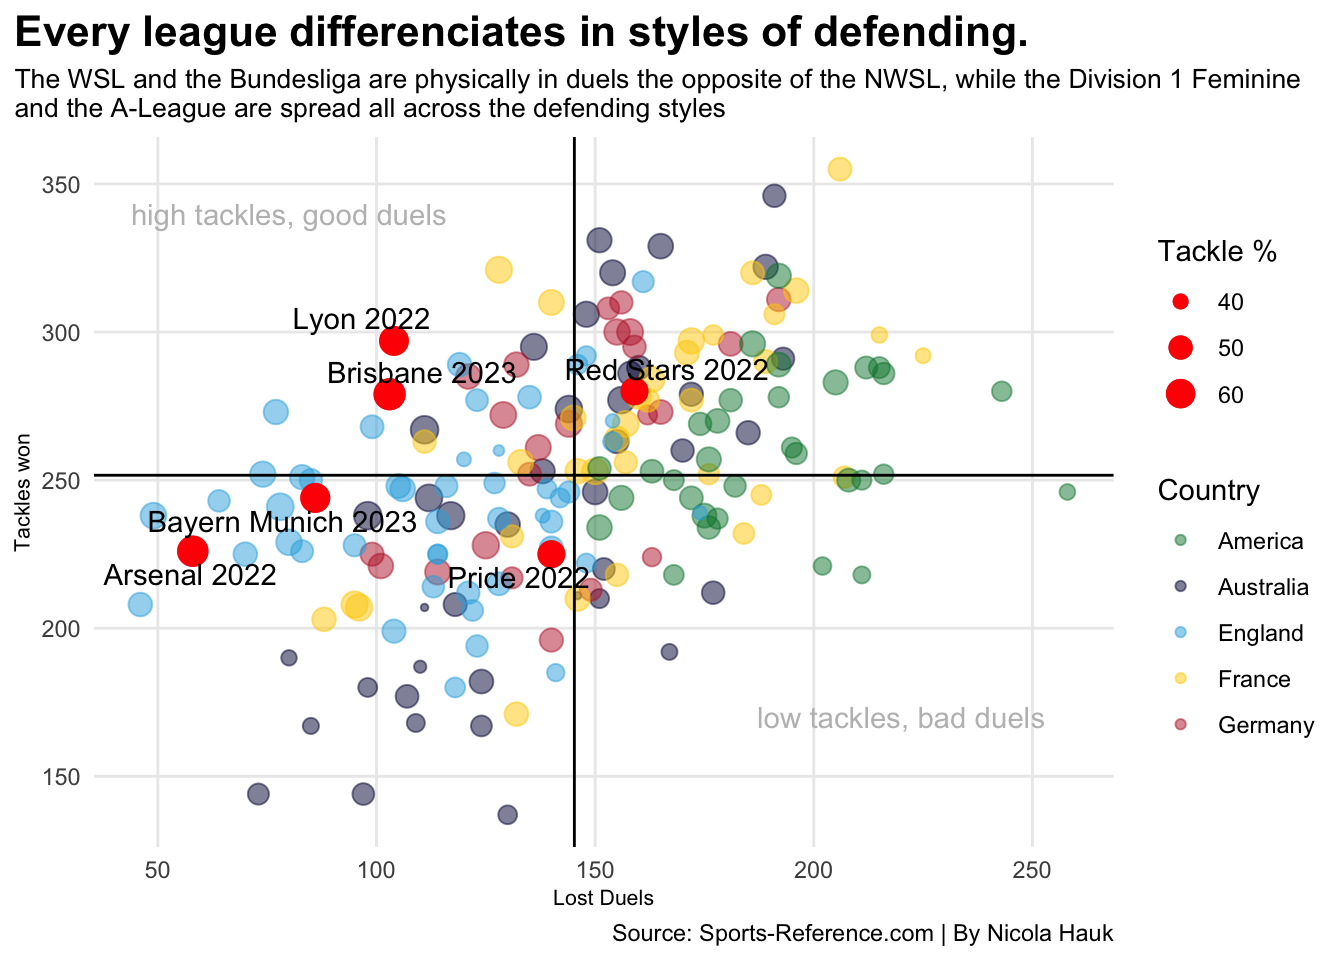
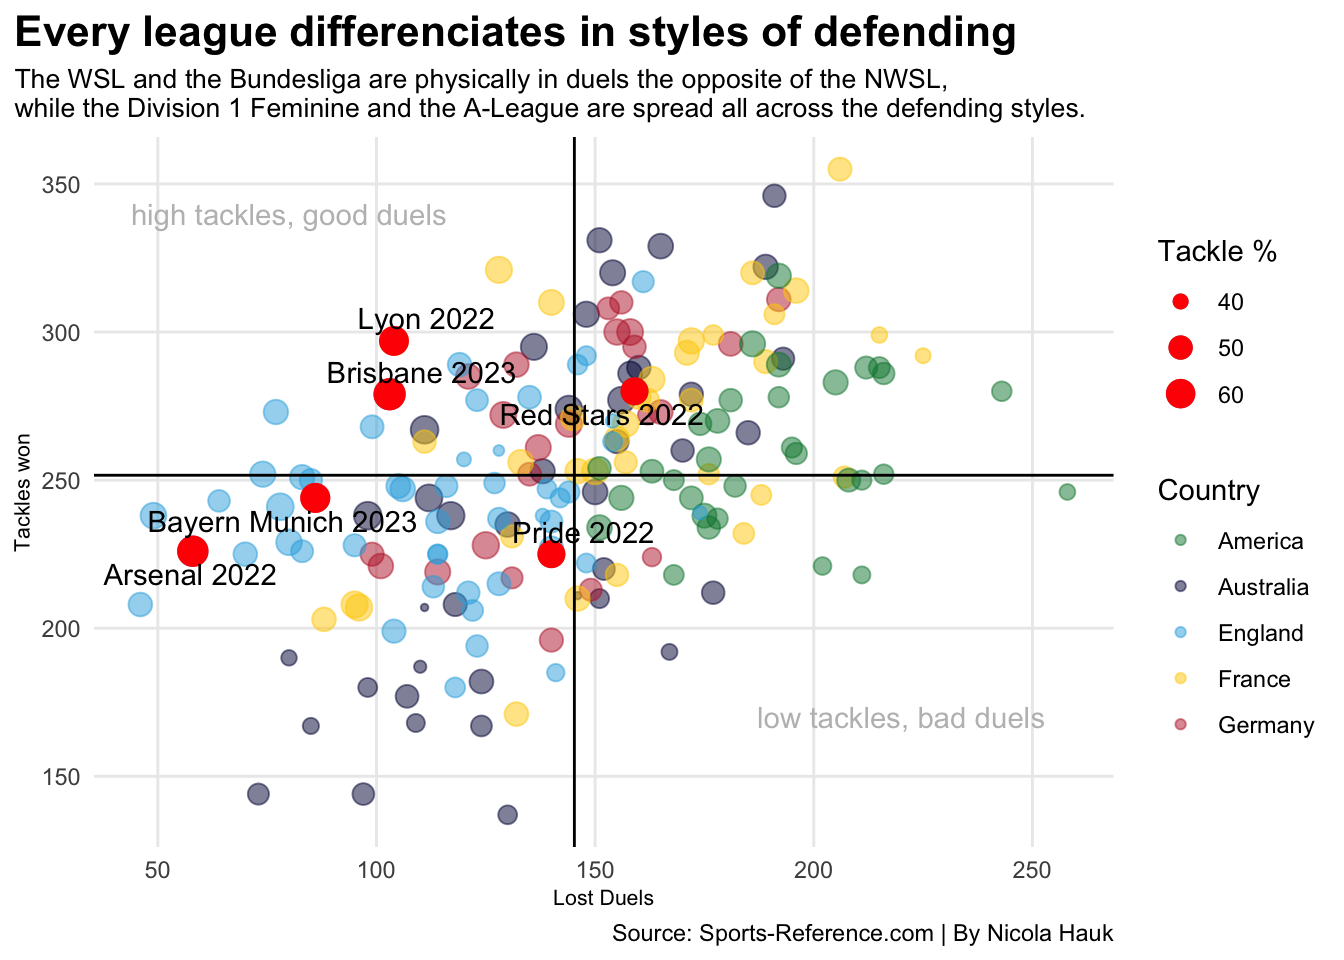
headline chart nr2

diff --git a/posts/the-best-womens-soccer-league-in-the-world/index.html b/posts/the-best-womens-soccer-league-in-the-world/index.html
@@ -340,7 +340,7 @@ pre > code.sourceCode > span > a:first-child::before { text-decoration: underlin
 <span id="cb2-20"><a href="#cb2-20" aria-hidden="true" tabindex="-1"></a>    <span class="fu">aes</span>(<span class="at">x=</span>DuelLost, <span class="at">y=</span>TklW, <span class="at">label=</span>SquadSeason)) <span class="sc">+</span></span>
 <span id="cb2-21"><a href="#cb2-21" aria-hidden="true" tabindex="-1"></a>  <span class="fu">scale_color_manual</span>(<span class="at">values=</span><span class="fu">c</span>(<span class="st">"#00843D"</span>, <span class="st">"#000040"</span>, <span class="st">"#2FAEE0"</span>,<span class="st">"#ffce00"</span>,<span class="st">"#BB2533"</span>)) <span class="sc">+</span></span>
 <span id="cb2-22"><a href="#cb2-22" aria-hidden="true" tabindex="-1"></a>  <span class="fu">scale_size_continuous</span>(<span class="at">name=</span><span class="st">"Tackle %"</span>, <span class="at">range =</span> <span class="fu">c</span>(<span class="dv">1</span>,<span class="dv">5</span>))<span class="sc">+</span></span>
-<span id="cb2-23"><a href="#cb2-23" aria-hidden="true" tabindex="-1"></a>  <span class="fu">labs</span>(<span class="at">x =</span> <span class="st">"Lost Duels"</span>, <span class="at">y =</span><span class="st">"Tackles won"</span>, <span class="at">title=</span><span class="st">"Every league differenciates in styles of defending."</span>, <span class="at">subtitle=</span><span class="st">"The WSL and the Bundesliga are physically in duels the opposite of the NWSL, while the Division 1 Feminine</span><span class="sc">\n</span><span class="st">and the A-League are spread all across the defending styles"</span>, <span class="at">caption=</span><span class="st">"Source: Sports-Reference.com | By Nicola Hauk"</span>)  <span class="sc">+</span> </span>
+<span id="cb2-23"><a href="#cb2-23" aria-hidden="true" tabindex="-1"></a>  <span class="fu">labs</span>(<span class="at">x =</span> <span class="st">"Lost Duels"</span>, <span class="at">y =</span><span class="st">"Tackles won"</span>, <span class="at">title=</span><span class="st">"Every league differenciates in styles of defending"</span>, <span class="at">subtitle=</span><span class="st">"The WSL and the Bundesliga are physically in duels the opposite of the NWSL,</span><span class="sc">\n</span><span class="st">while the Division 1 Feminine and the A-League are spread all across the defending styles."</span>, <span class="at">caption=</span><span class="st">"Source: Sports-Reference.com | By Nicola Hauk"</span>)  <span class="sc">+</span> </span>
 <span id="cb2-24"><a href="#cb2-24" aria-hidden="true" tabindex="-1"></a>  <span class="fu">theme_minimal</span>() <span class="sc">+</span> </span>
 <span id="cb2-25"><a href="#cb2-25" aria-hidden="true" tabindex="-1"></a>  <span class="fu">theme</span>(</span>
 <span id="cb2-26"><a href="#cb2-26" aria-hidden="true" tabindex="-1"></a>    <span class="at">plot.title =</span> <span class="fu">element_text</span>(<span class="at">size =</span> <span class="dv">16</span>, <span class="at">face =</span> <span class="st">"bold"</span>),</span>

diff --git a/index.html b/index.html
@@ -205,7 +205,7 @@ window.Quarto = {
 
 <div class="quarto-listing quarto-listing-container-default" id="listing-listing">
 <div class="list quarto-listing-default">
-<div class="quarto-post image-right" data-index="0" data-categories="" data-listing-date-sort="1713070800000" data-listing-file-modified-sort="1712958544501" data-listing-date-modified-sort="NaN" data-listing-reading-time-sort="9" data-listing-word-count-sort="1658">
+<div class="quarto-post image-right" data-index="0" data-categories="" data-listing-date-sort="1713070800000" data-listing-file-modified-sort="1713132660422" data-listing-date-modified-sort="NaN" data-listing-reading-time-sort="9" data-listing-word-count-sort="1643">
 <div class="thumbnail">
 <p><a href="./posts/the-best-womens-soccer-league-in-the-world/index.html" class="no-external"></a></p><a href="./posts/the-best-womens-soccer-league-in-the-world/index.html" class="no-external">
 <p><img src="./posts/the-best-womens-soccer-league-in-the-world/image.png" class="thumbnail-image"></p>
